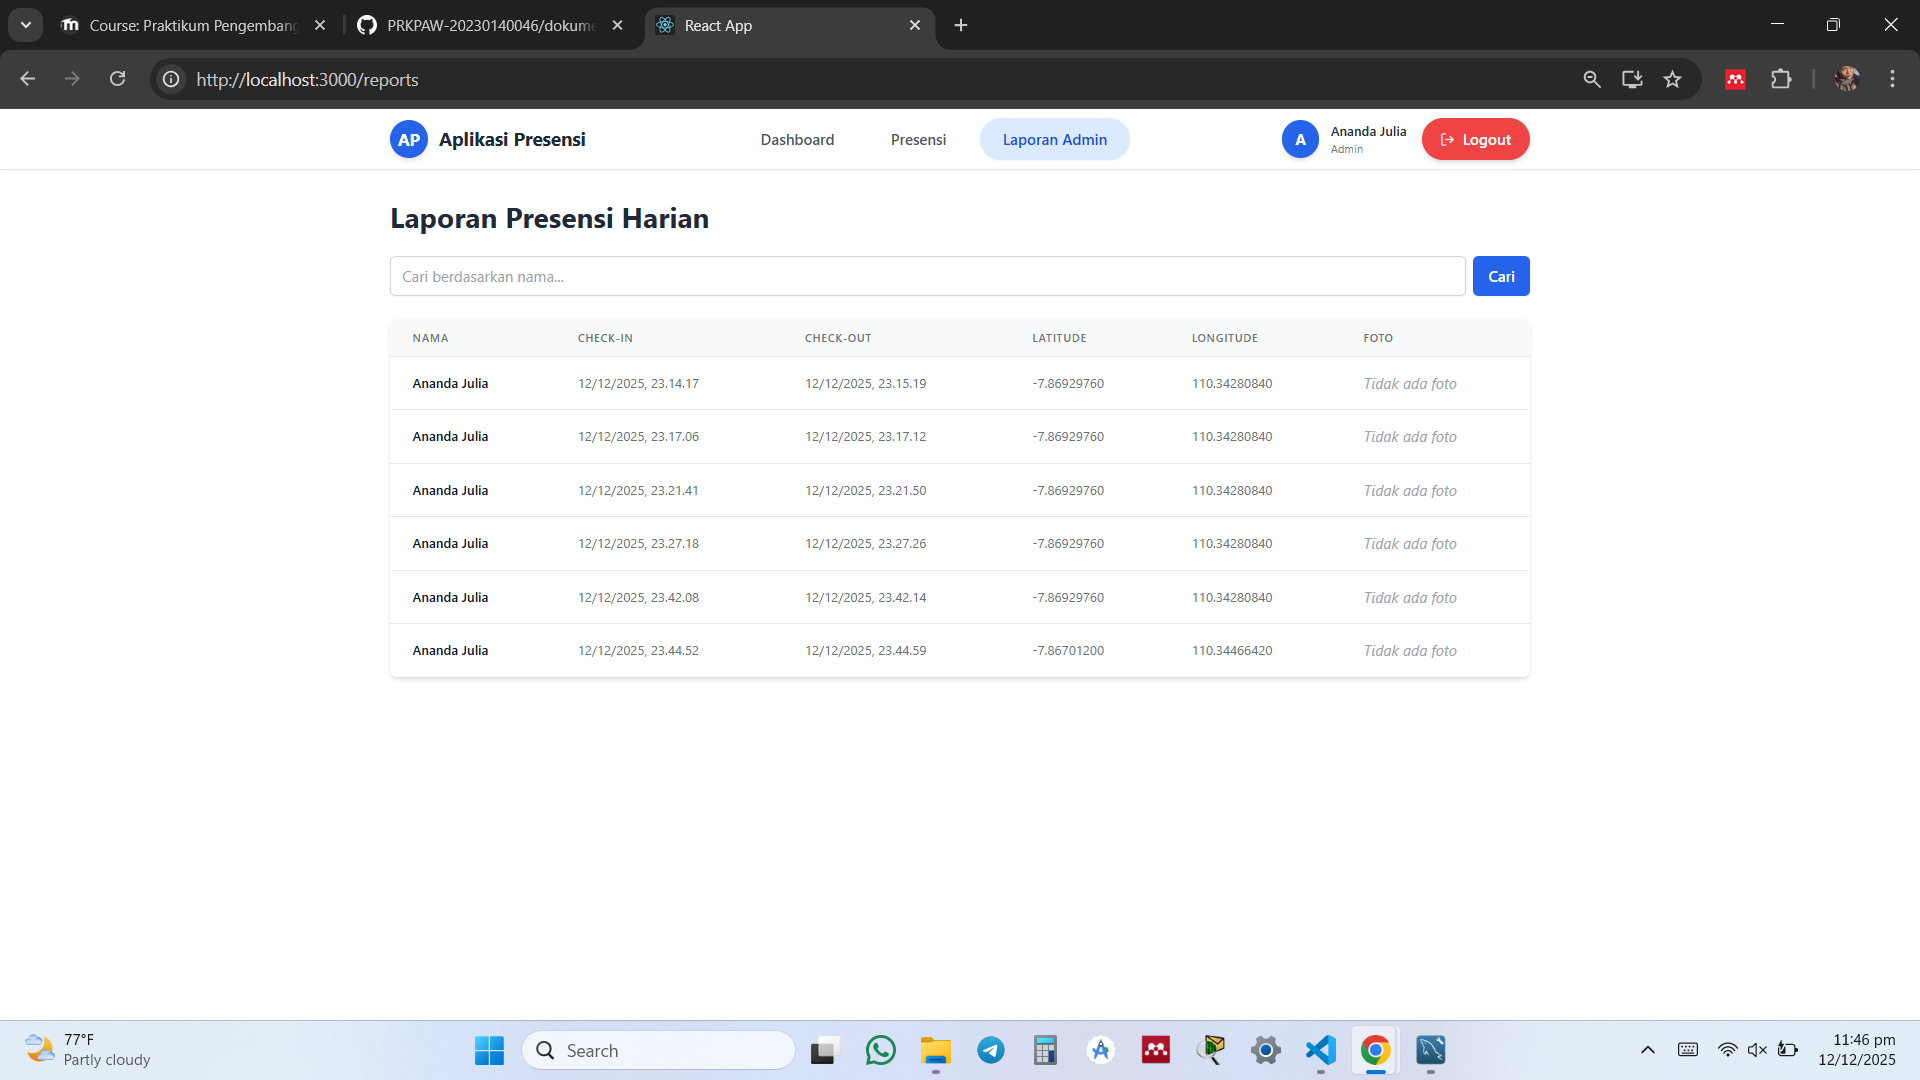
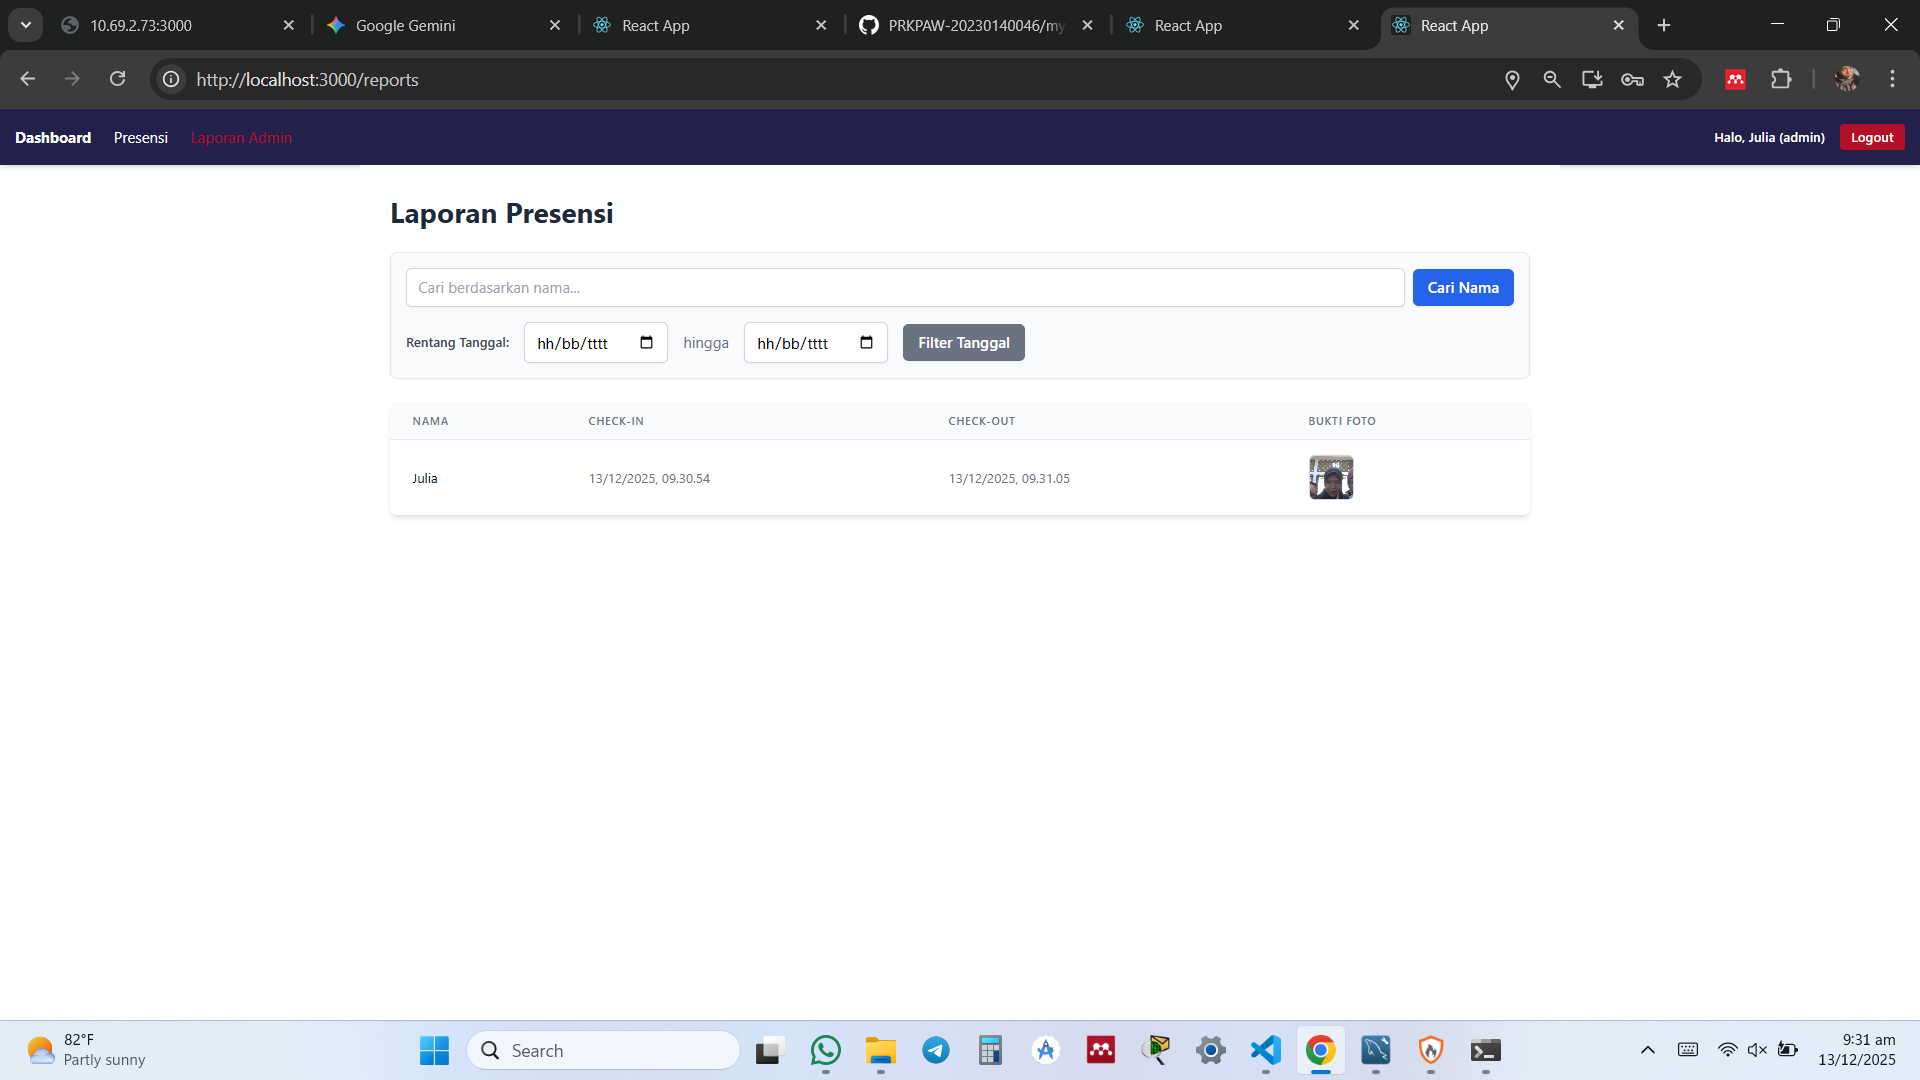
fixing prak 10

diff --git a/my-node-server/routes/presensi.js b/my-node-server/routes/presensi.js
@@ -6,76 +6,47 @@ const presensiController = require('../controllers/presensiController');
 const { authenticateToken } = require('../middleware/permissionMiddleware'); 
 const { body, validationResult } = require('express-validator');
 
-// Impor modul Multer (ditempatkan di sini)
-const multer = require('multer');
-const path = require('path');
-const fs = require('fs');
-
-// Path ke folder uploads dari root server
-const uploadDir = path.join(__dirname, '..', 'uploads');
-if (!fs.existsSync(uploadDir)) {
-    fs.mkdirSync(uploadDir);
-}
-
-// 🎯 KONFIGURASI MULTER
-const storage = multer.diskStorage({
-  destination: (req, file, cb) => {
-    cb(null, uploadDir); 
-  },
-  filename: (req, file, cb) => {
-    const userId = req.user ? req.user.id : 'unknown'; 
-    const ext = path.extname(file.originalname);
-    cb(null, `${userId}-${Date.now()}${ext}`);
-  }
-});
-
-const fileFilter = (req, file, cb) => {
-    if (file.mimetype.startsWith('image/')) {
-        cb(null, true);
-    } else {
-        cb(new Error('Hanya file gambar yang diperbolehkan!'), false);
-    }
-};
-
-const upload = multer({ 
-  storage: storage,
-  fileFilter: fileFilter,
-  limits: { fileSize: 5 * 1024 * 1024 } 
-});
-// -------------------- END MULTER CONFIG --------------------
+// Ambil instance Multer dari controller
+const { upload } = presensiController; 
 
 
 // Middleware otentikasi diterapkan ke semua rute di bawah ini
 router.use(authenticateToken);
 
-// CHECK-IN ROUTE
+// =======================================================
+// CHECK-IN ROUTE (Route yang menggunakan file upload)
+// =======================================================
 router.post(
-  '/check-in', 
-  upload.single('buktiFoto'), 
-  presensiController.CheckIn
+  '/checkin', 
+  upload.single('buktiFoto'), 
+  presensiController.CheckIn
 );
 
-// CHECK-OUT ROUTE
-router.post('/check-out', presensiController.CheckOut);
+// =======================================================
+// ROUTE LAINNYA
+// =======================================================
 
-// ROUTE UPDATE/DELETE (Contoh route lain)
+// CHECK-OUT ROUTE
+router.post('/checkout', presensiController.CheckOut);
+
+// ROUTE UPDATE/DELETE
 router.put(
-  '/:id',
-  [
-    body('checkIn').optional().isISO8601().withMessage('checkIn harus berupa format tanggal yang valid'),
-    body('checkOut').optional().isISO8601().withMessage('checkOut harus berupa format tanggal yang valid'),
-  ],
-  (req, res, next) => {
-    const errors = validationResult(req);
-    if (!errors.isEmpty()) {
-      return res.status(400).json({
-        message: 'Validasi gagal',
-        errors: errors.array(),
-      });
-    }
-    next();
-  },
-  presensiController.updatePresensi
+  '/:id',
+  [
+    body('checkIn').optional().isISO8601().withMessage('checkIn harus berupa format tanggal yang valid'),
+    body('checkOut').optional().isISO8601().withMessage('checkOut harus berupa format tanggal yang valid'),
+  ],
+  (req, res, next) => {
+    const errors = validationResult(req);
+    if (!errors.isEmpty()) {
+      return res.status(400).json({
+        message: 'Validasi gagal',
+        errors: errors.array(),
+      });
+    }
+    next();
+  },
+  presensiController.updatePresensi
 );
 
 router.delete('/:id', presensiController.deletePresensi);

diff --git a/dokumentasi/tugas10/tugas10.md b/dokumentasi/tugas10/tugas10.md
@@ -1,3 +1,8 @@
-1. ![alt text](image.png)
-2. ![alt text](image-1.png)
-3. ![alt text](image-2.png)
+1. presensi yg nampilin kamera
+![![alt text](image.png)](image.png)
+2. kolom bukti foto pada laporan 
+![alt text](image-1.png)
+3. thumbnail foto
+![![alt text](image-3.png)](image-2.png)
+4. db presensi
+![alt text](image-4.png)
